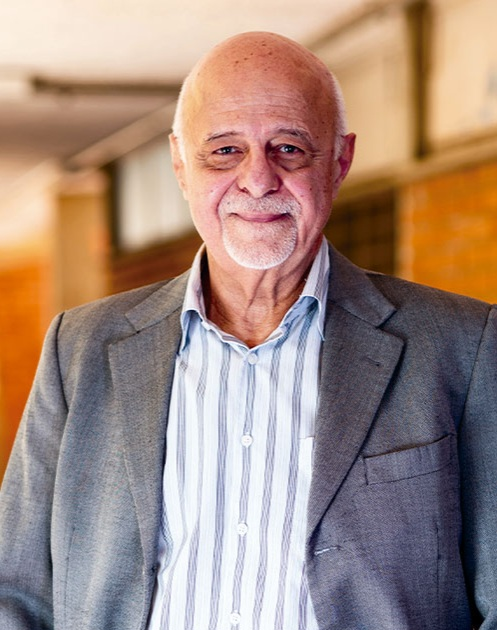
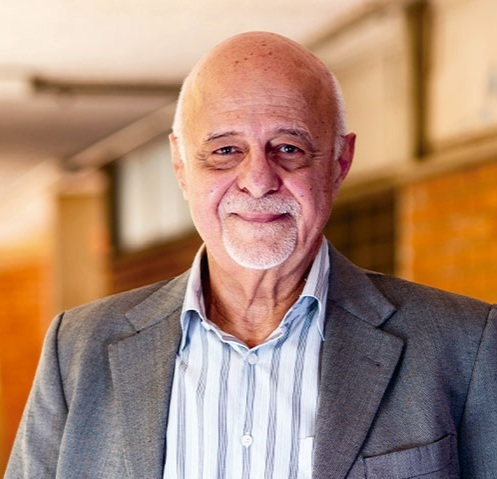
mod

diff --git a/src/components/quasar/QuasarSpeakers.tsx b/src/components/quasar/QuasarSpeakers.tsx
@@ -301,7 +301,7 @@ const QuasarSpeakers = () => {
                 
                 {/* Coluna da Imagem */}
                 {/* Alterado de aspect-square para aspect-video no mobile para ocupar menos altura */}
-                <div className="relative w-full md:w-2/5 aspect-square md:aspect-auto md:h-auto md:min-h-[450px] group flex-shrink-0">
+                <div className="relative w-full md:w-2/5 aspect-video md:aspect-auto md:h-auto md:min-h-[450px] group flex-shrink-0">
                   <img
                     src={selectedSpeaker.image}
                     alt={selectedSpeaker.name}
